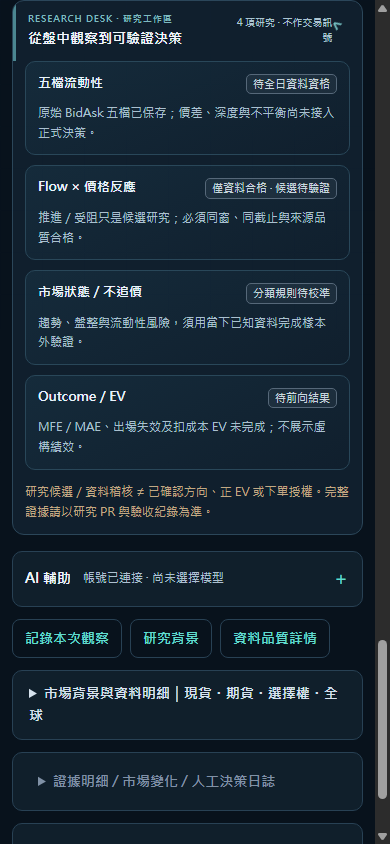
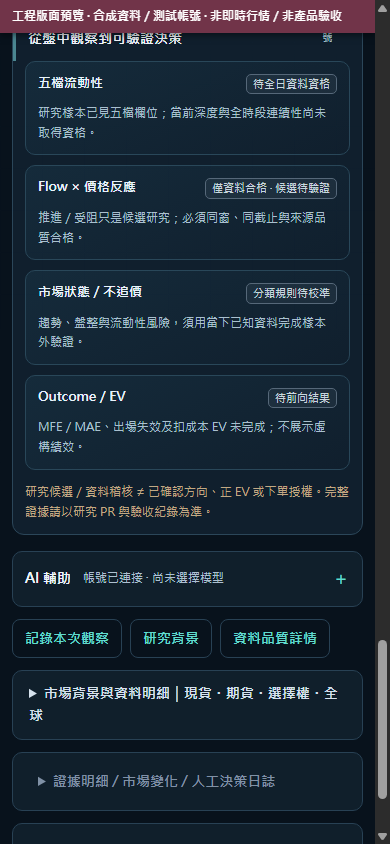
fix(CRU-21): watermark synthetic captures and scope depth evidence

Changed region(s): [[0.0, 0.0, 0.9846, 0.0616], [0.0923, 0.1232, 0.8615, 0.1848]]

diff --git a/public/home-workspace.js b/public/home-workspace.js
@@ -405,7 +405,7 @@
     const grid = el('div', 'home-research-grid', null, 'home-research-grid');
     for (const [key, label, stage, detail] of [
       ['depth', '五檔流動性', '待全日資料資格',
-        '原始 BidAsk 五檔已保存；價差、深度與不平衡尚未接入正式決策。'],
+        '研究樣本已見五檔欄位；當前深度與全時段連續性尚未取得資格。'],
       ['flow', 'Flow × 價格反應', '方向資格待確認',
         '推進／受阻只是候選研究；必須同窗、同截止與來源品質合格。'],
       ['state', '市場狀態／不追價', '分類規則待校準',

diff --git a/docs/product/CRU21_UI_CLARITY_P1_DESIGN.md b/docs/product/CRU21_UI_CLARITY_P1_DESIGN.md
@@ -52,3 +52,9 @@ All screenshots have the explicit synthetic preview ribbon; **not live TX or ord
 ![Research desk at 390px](./evidence/cru21-ui-clarity-p1/research-phone-390.png)
 
 Expanded/collapsed research cards never call market APIs, AI endpoints or order routes. Snapshot image captures and UI assertions are test evidence only, not an Owner approval for merge/deployment.
+
+## 2026-10-22 independent review P2 screenshot safety fix
+
+The first scrolled Research Desk evidence images omitted the top-of-page synthetic ribbon. The browser test helper now injects a **fixed, always-visible, high-contrast** Chinese watermark on screenshots of scrolled research cards: `工程版面預覽 · 合成資料／測試帳號 · 非即時行情／非產品驗收`. The capture fails closed if the watermark is missing or not fixed and spanning the visible content width; the temporary banner is removed after capture and does **not** exist in the actual product. All four evidence PNG files were regenerated and independently visually checked after the fix. The L5 status copy now describes sampled historical evidence only, without claiming current live depth is verified.
+
+Revised screenshots are synthetic engineering evidence, **never** Owner live-source or normal-auth acceptance. The first unwatermarked screenshots on an older commit must not be used as evidence.
